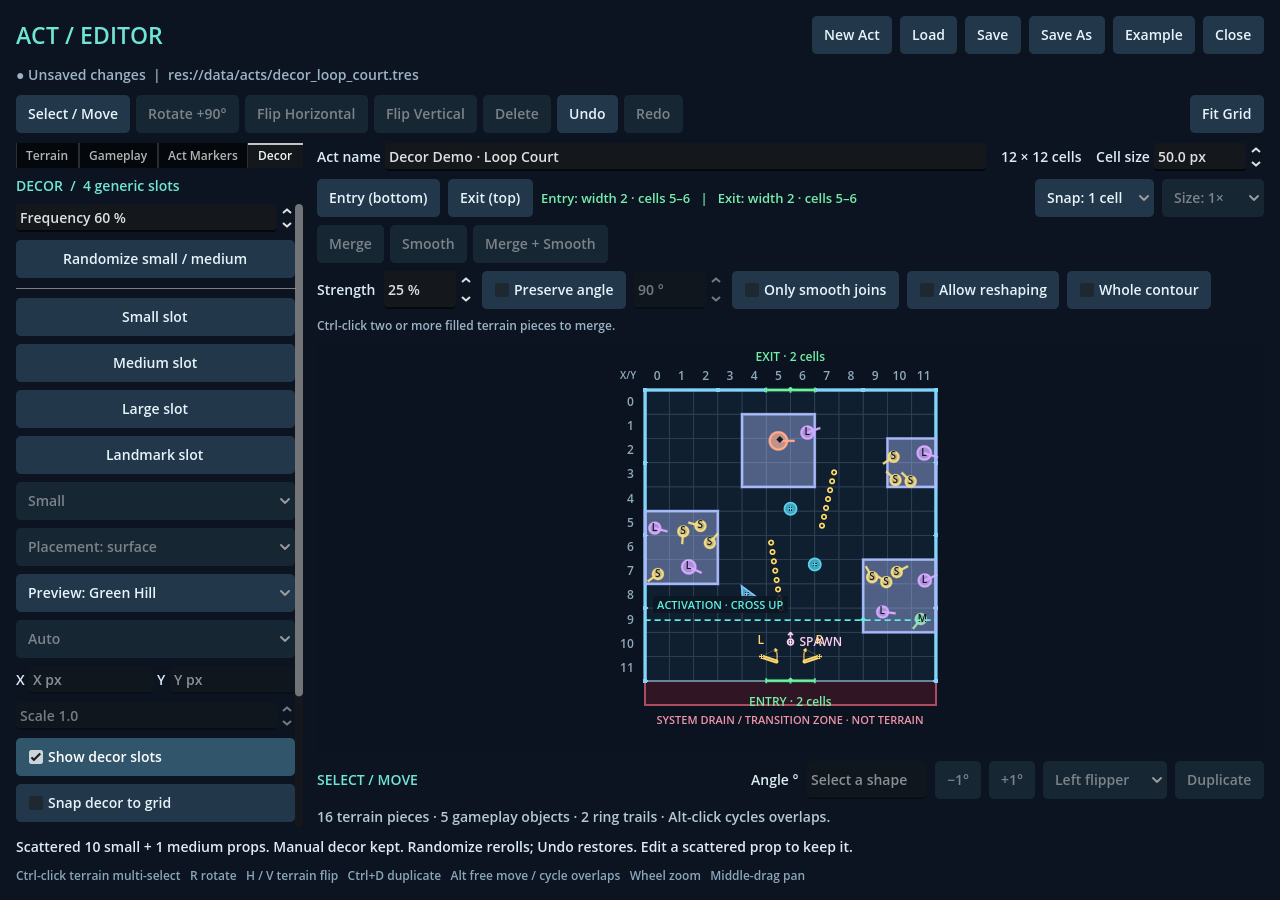
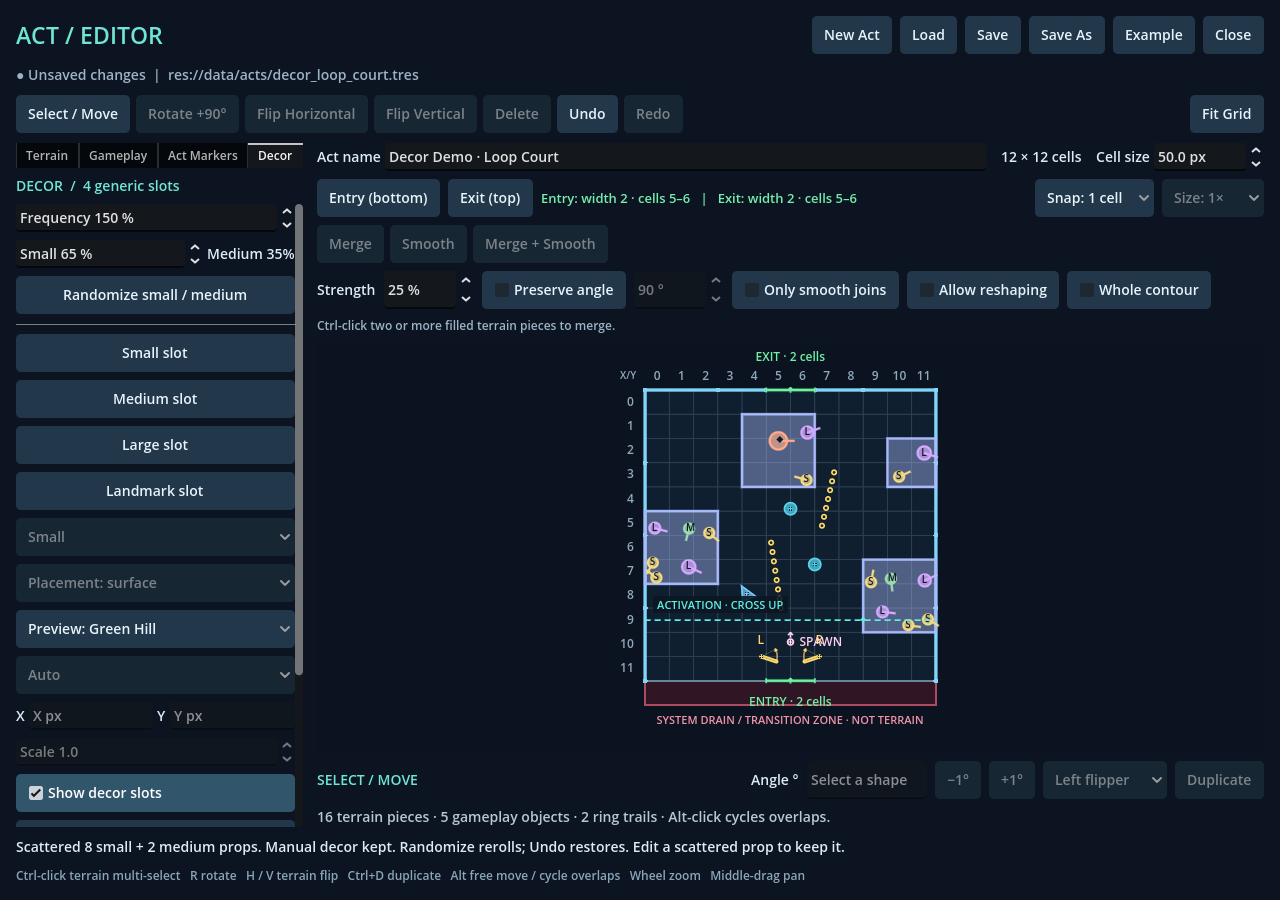
Make decor scatter mix configurable and expand frequency controls

diff --git a/docs/DECOR_SLOTS.md b/docs/DECOR_SLOTS.md
@@ -34,9 +34,9 @@ For Green Hill **small / surface**, **Variant 1 — Flower**, **Variant 2 — Sm
 
 ### Random small and medium decor
 
-At the top of the **Decor** palette, set **Frequency** (0–100%, default 40%), then click **Randomize small / medium**. Each click replaces the previous scatter with new positions, Auto variants, rotations from 0–360° and scales from 0.85–1.15. The target mix is 75% small and 25% medium, rounded to whole props; tight or occupied terrain can prevent filling either quota. Large props and landmarks remain manual.
+At the top of the **Decor** palette, set **Frequency** (0–500% in 1% steps, default 40%) and the **Small %** share (0–100%, default 75%), then click **Randomize small / medium**. The complementary **Medium %** updates automatically: 0% small means all medium; 100% small means all small. Each click replaces the previous scatter with new positions, Auto variants, rotations from 0–360° and scales from 0.85–1.15. The chosen mix is rounded to whole props; tight or occupied terrain can prevent filling either quota. Large props and landmarks remain manual.
 
-Scatter checks raised terrain support around each footprint and leaves clearance from other props. It does not place decor on the playable floor or narrow unsupported wall ribbons. Density increases with frequency, up to 400 scattered props per Act; insufficient space can reduce the count. Frequency is an editor session preference and applies only when clicked. The resulting slots persist normally, with no automatic scattering on load.
+Scatter checks raised terrain support around each footprint and leaves clearance from other props. It does not place decor on the playable floor or narrow unsupported wall ribbons. Above 100%, it samples more terrain gaps for denser dressing without reducing clearance. Frequency requests more props, up to 400 scattered props per Act; available space can limit the result. Frequency and mix are editor session preferences and apply only when clicked. The resulting slots persist normally, with no automatic scattering on load.
 
 Manual slots of every size are preserved. Moving, rotating, editing or duplicating a scattered slot makes the edited/copy slot manual so future rerolls keep it. The inspector identifies scattered slots. **0% + Randomize** clears only the scatter. Reroll and clear each use one Undo step; Redo restores the exact result, including ownership. Scatter ownership survives Save, Save As and reload.
 
